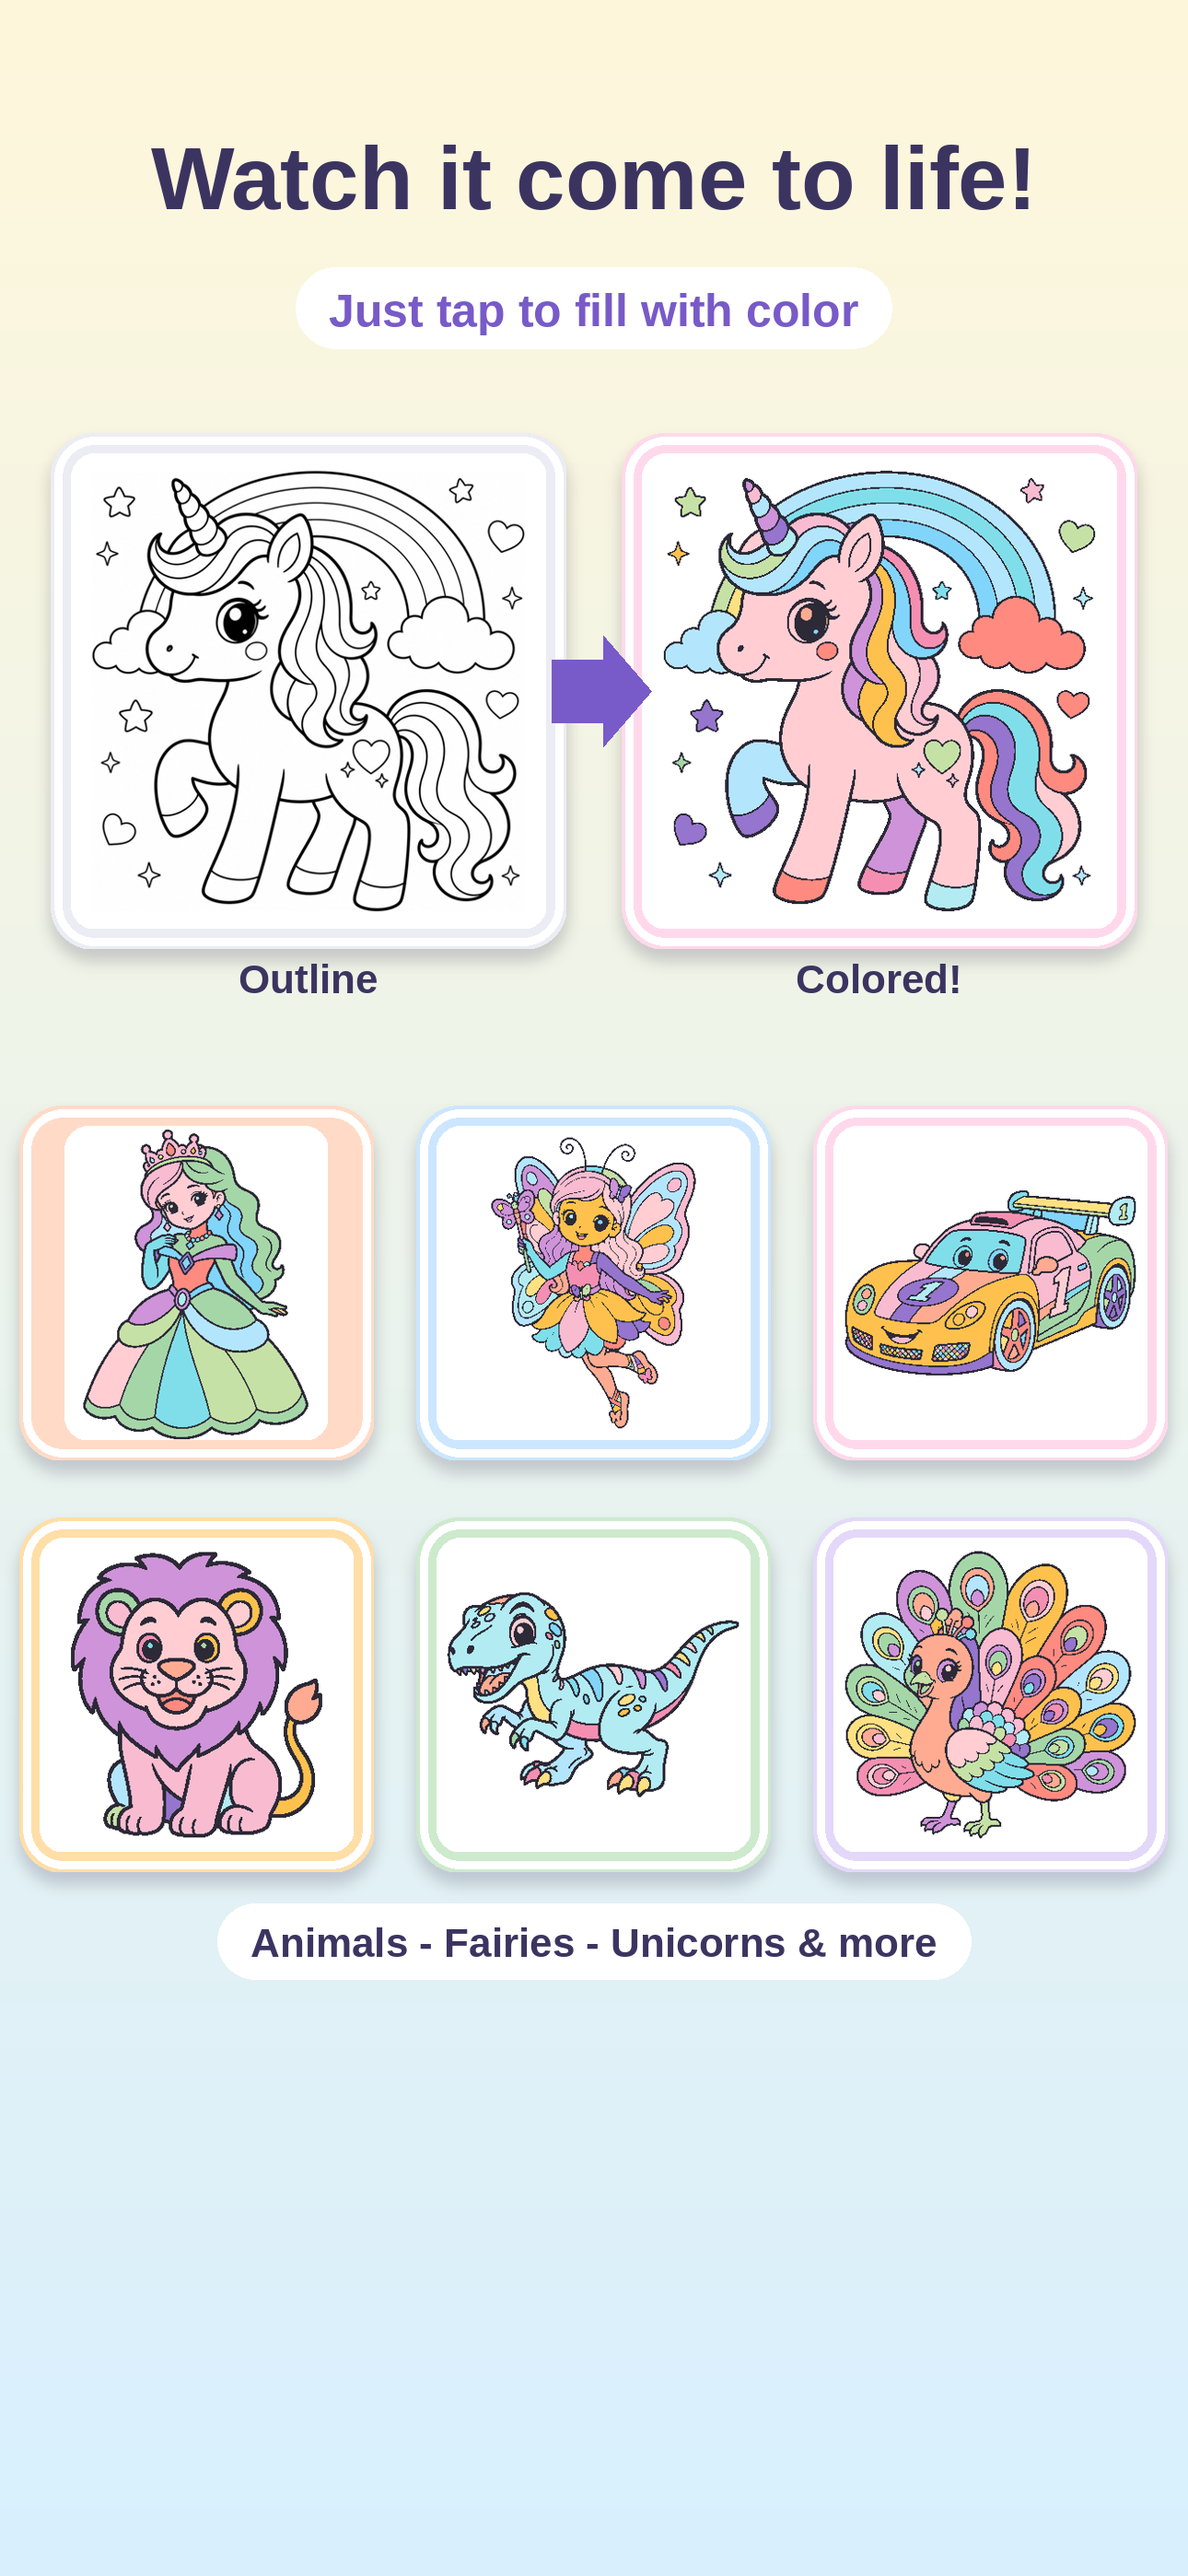
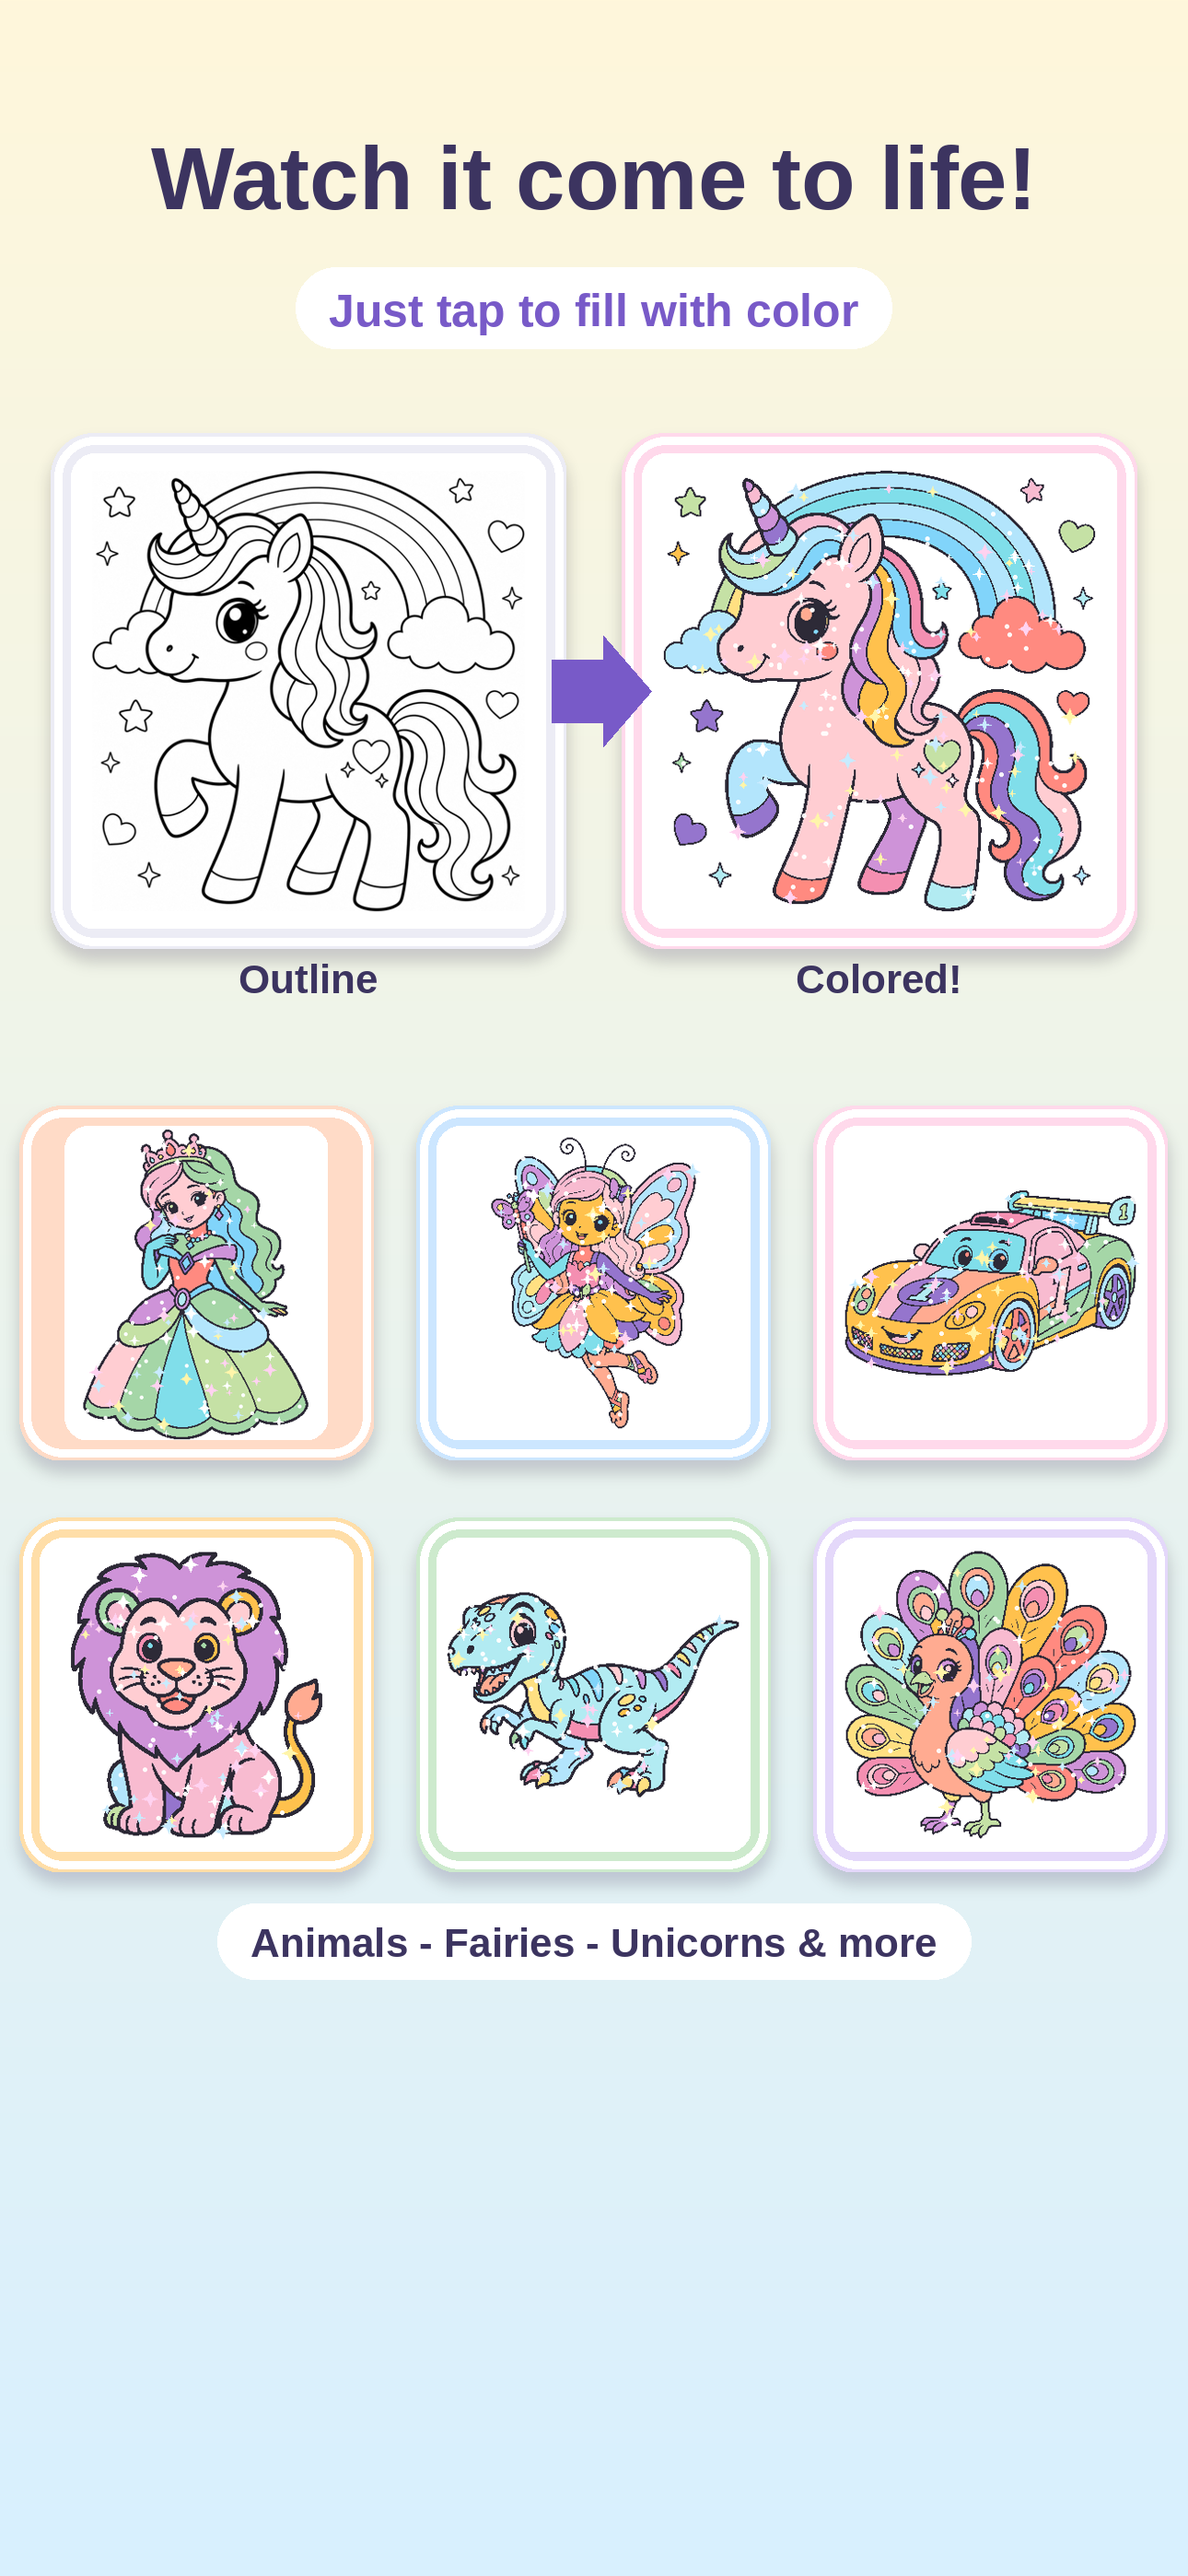
Yearly price -> ₹590; add glitter/sparkle overlay to colored screenshots
- Change yearly to ₹590 (ProStore fallback + subtitle, Products.storekit, terms)
- Scatter sparkle stars/dots over the coloured characters (princess, unicorn,
  grid, collage) for a glittery look in the marketing screenshots

diff --git a/docs/terms.html b/docs/terms.html
@@ -24,7 +24,7 @@
   <p>The app is free to download. Some features are part of an optional auto-renewable subscription called &ldquo;Coloring Fun Pro&rdquo;:</p>
   <ul>
     <li><strong>Monthly</strong> &mdash; &#8377;99 per month</li>
-    <li><strong>Yearly</strong> &mdash; &#8377;594 per year</li>
+    <li><strong>Yearly</strong> &mdash; &#8377;590 per year</li>
   </ul>
   <p>Payment is charged to your Apple ID account at confirmation of purchase. The subscription automatically renews unless auto-renew is turned off at least 24 hours before the end of the current period. Your account is charged for renewal within 24 hours before the end of the current period. You can manage or cancel your subscription anytime in your Apple ID Account Settings. Prices may vary by region and are subject to change.</p>
 

diff --git a/ColoringFun/ColoringFun/ProStore.swift b/ColoringFun/ColoringFun/ProStore.swift
@@ -139,8 +139,8 @@ struct ProPlan: Identifiable, Equatable {
         period: "per month", subtitle: "Billed every month", badge: nil)
 
     static let yearly = ProPlan(
-        id: ProStore.yearlyID, title: "Yearly", fallbackPrice: "₹594",
-        period: "per year", subtitle: "Just ₹49.50 / month", badge: "50% OFF")
+        id: ProStore.yearlyID, title: "Yearly", fallbackPrice: "₹590",
+        period: "per year", subtitle: "Just ₹49 / month", badge: "50% OFF")
 
     static let all: [ProPlan] = [.yearly, .monthly]
 }

diff --git a/marketing/make_more_screenshots.py b/marketing/make_more_screenshots.py
@@ -51,6 +51,33 @@ def colorize(path,maxw=420,seed=7):
         for i in reg: out[i]=col
     res=[(45,42,55) if wall[i] else ((255,255,255) if bg[i] else out[i]) for i in range(n)]
     img=Image.new("RGB",(Wd,Hd)); img.putdata(res); return img
+
+def sparkle_overlay(img, seed=1):
+    img=img.convert("RGB"); Wd,Hd=img.size; px=img.load()
+    pts=[]
+    for y in range(0,Hd,3):
+        for x in range(0,Wd,3):
+            r,g,b=px[x,y]
+            if not (r>238 and g>238 and b>238): pts.append((x,y))
+    if not pts: return img
+    rng=random.Random(seed*7+1)
+    ov=Image.new("RGBA",(Wd,Hd),(0,0,0,0)); d=ImageDraw.Draw(ov)
+    scol=[(255,255,255),(255,245,170),(255,210,240),(200,235,255)]
+    n=min(int(Wd*Hd/1700)+14, 240)
+    def star(cx,cy,r,col):
+        p=[]
+        for k in range(8):
+            rr=r if k%2==0 else r*0.4; a=math.pi/4*k-math.pi/2
+            p.append((cx+rr*math.cos(a),cy+rr*math.sin(a)))
+        d.polygon(p,fill=col)
+    for _ in range(n):
+        cx,cy=rng.choice(pts); r=rng.uniform(3,9)
+        if rng.random()<0.55: star(cx,cy,r,rng.choice(scol))
+        else: d.ellipse([cx-2,cy-2,cx+2,cy+2],fill=(255,255,255,235))
+    img=img.convert("RGBA"); img.alpha_composite(ov); return img.convert("RGB")
+def glit(path,maxw=420,seed=7):
+    return sparkle_overlay(colorize(path,maxw,seed),seed)
+
 def grad():
     g=Image.new("RGB",(W,H)); d=ImageDraw.Draw(g)
     for y in range(H):
@@ -85,13 +112,13 @@ center(dr,140,"Watch it come to life!",fit(dr,"Watch it come to life!",W-110,96)
 pill(dr,290,"Just tap to fill with color",font(50),PURP)
 cw=560; y0=470
 card(bg,55,y0,cw,cw,(236,236,245),flat(asset("unicorn_rainbow"),520),"Outline")
-card(bg,W-55-cw,y0,cw,cw,(255,217,235),colorize(asset("unicorn_rainbow"),520,11),"Colored!")
+card(bg,W-55-cw,y0,cw,cw,(255,217,235),glit(asset("unicorn_rainbow"),520,11),"Colored!")
 ax=W//2; ay=y0+cw//2
 dr.polygon([(ax-46,ay-34),(ax+10,ay-34),(ax+10,ay-60),(ax+62,ay),(ax+10,ay+60),(ax+10,ay+34),(ax-46,ay+34)],fill=PURP)
 var=[a for a in ["princess_golden","fairy_butterfly","car_race","lion","trex","bird_peacock"] if asset(a)][:6]
 sw=385; gp=46; mx=(W-3*sw-2*gp)//2; sy=1200
 for idx,a in enumerate(var):
-    r,c=divmod(idx,3); card(bg,mx+c*(sw+gp),sy+r*(sw+62),sw,sw,TINTS[idx%len(TINTS)],colorize(asset(a),350,idx*9+2))
+    r,c=divmod(idx,3); card(bg,mx+c*(sw+gp),sy+r*(sw+62),sw,sw,TINTS[idx%len(TINTS)],glit(asset(a),350,idx*9+2))
 pill(dr,sy+2*sw+62+34,"Animals - Fairies - Unicorns & more",font(44),INK)
 bg.convert("RGB").save(os.path.join(OUTDIR,"store_screenshot_4_beforeafter.png")); print("A")
 
@@ -105,14 +132,14 @@ items=[a for a in items if asset(a)][:12]
 cols=3; mx=50; gp=34; cw=(W-2*mx-gp*(cols-1))//cols; ch=cw; sy=430
 for idx,a in enumerate(items):
     r,c=divmod(idx,cols); x=mx+c*(cw+gp); y=sy+r*(ch+gp)
-    card(bg,x,y,cw,ch,TINTS[idx%len(TINTS)],colorize(asset(a),360,idx*7+1))
+    card(bg,x,y,cw,ch,TINTS[idx%len(TINTS)],glit(asset(a),360,idx*7+1))
 pill(dr,sy+4*(ch+gp)+10,"Glitter - Sparkle - Stickers - Save & Share",font(42),INK)
 bg.convert("RGB").save(os.path.join(OUTDIR,"store_screenshot_5_collage.png")); print("B")
 
 # ===== C: Features =====
 bg=grad(); dr=ImageDraw.Draw(bg)
 center(dr,140,"Everything Kids Love",fit(dr,"Everything Kids Love",W-100,96),INK)
-hero=colorize(asset("princess_golden"),640,seed=3)
+hero=glit(asset("princess_golden"),640,3)
 hw=800; hh=int(hero.height*hw/hero.width); x=(W-hw)//2; y=360
 sh=Image.new("RGBA",(W,H),(0,0,0,0)); ImageDraw.Draw(sh).rounded_rectangle([x,y+14,x+hw,y+hh+14],50,fill=(60,40,90,60))
 bg.alpha_composite(sh.filter(ImageFilter.GaussianBlur(12)))

diff --git a/marketing/make_colored_screenshots.py b/marketing/make_colored_screenshots.py
@@ -1,3 +1,4 @@
+import math
 import os, random
 from collections import deque
 from PIL import Image, ImageDraw, ImageFont, ImageFilter
@@ -58,6 +59,32 @@ def colorize(path, maxw=520, seed=7):
     img = Image.new("RGB",(Wd,Hd)); img.putdata(res)
     return img
 
+def sparkle_overlay(img, seed=1):
+    img=img.convert("RGB"); Wd,Hd=img.size; px=img.load()
+    pts=[]
+    for y in range(0,Hd,3):
+        for x in range(0,Wd,3):
+            r,g,b=px[x,y]
+            if not (r>238 and g>238 and b>238): pts.append((x,y))
+    if not pts: return img
+    rng=random.Random(seed*7+1)
+    ov=Image.new("RGBA",(Wd,Hd),(0,0,0,0)); d=ImageDraw.Draw(ov)
+    scol=[(255,255,255),(255,245,170),(255,210,240),(200,235,255)]
+    n=min(int(Wd*Hd/1700)+14, 240)
+    def star(cx,cy,r,col):
+        p=[]
+        for k in range(8):
+            rr=r if k%2==0 else r*0.4; a=math.pi/4*k-math.pi/2
+            p.append((cx+rr*math.cos(a),cy+rr*math.sin(a)))
+        d.polygon(p,fill=col)
+    for _ in range(n):
+        cx,cy=rng.choice(pts); r=rng.uniform(3,9)
+        if rng.random()<0.55: star(cx,cy,r,rng.choice(scol))
+        else: d.ellipse([cx-2,cy-2,cx+2,cy+2],fill=(255,255,255,235))
+    img=img.convert("RGBA"); img.alpha_composite(ov); return img.convert("RGB")
+def glit(path,maxw=420,seed=7):
+    return sparkle_overlay(colorize(path,maxw,seed),seed)
+
 def gradient_bg():
     bg = Image.new("RGB",(W,H)); d=ImageDraw.Draw(bg)
     for y in range(H):
@@ -101,7 +128,7 @@ pill(dr,300,"Tap to fill with bright colors",font(52),(120,90,200))
 margin,gap=70,46; cw=(W-2*margin-gap)//2; ch=cw; sy=470; rg=58
 for idx,(a,lbl,tint) in enumerate(picks2):
     r,c=divmod(idx,2); x=margin+c*(cw+gap); y=sy+r*(ch+70+rg)
-    card(bg,x,y,cw,ch,tint,colorize(asset(a),seed=idx*5+3),lbl)
+    card(bg,x,y,cw,ch,tint,glit(asset(a),520,idx*5+3),lbl)
 pill(dr,2540,"Glitter & sparkle colors  -  Stickers  -  Draw your own",font(44),INK)
 bg.convert("RGB").save(os.path.join(OUTDIR,"store_screenshot_2_colored.png"))
 print("saved 2")
@@ -137,7 +164,7 @@ strip=[("princess_golden",(255,236,200)),("fairy_butterfly",(228,216,250)),("uni
 strip=[t for t in strip if asset(t[0])]
 sw=400; sgap=48; total=len(strip)*sw+(len(strip)-1)*sgap; sx0=(W-total)//2; sy=y+hh+72
 for i,(a,tint) in enumerate(strip):
-    card(bg,sx0+i*(sw+sgap),sy,sw,sw,tint,colorize(asset(a),maxw=440,seed=i+30),"")
+    card(bg,sx0+i*(sw+sgap),sy,sw,sw,tint,glit(asset(a),440,i+30),"")
 pill(dr,sy+sw+58,"Mermaid - Rainbow - Aurora - Gold & more",font(44),INK)
 bg.convert("RGB").save(os.path.join(OUTDIR,"store_screenshot_3_glitter.png"))
 print("saved 3")
